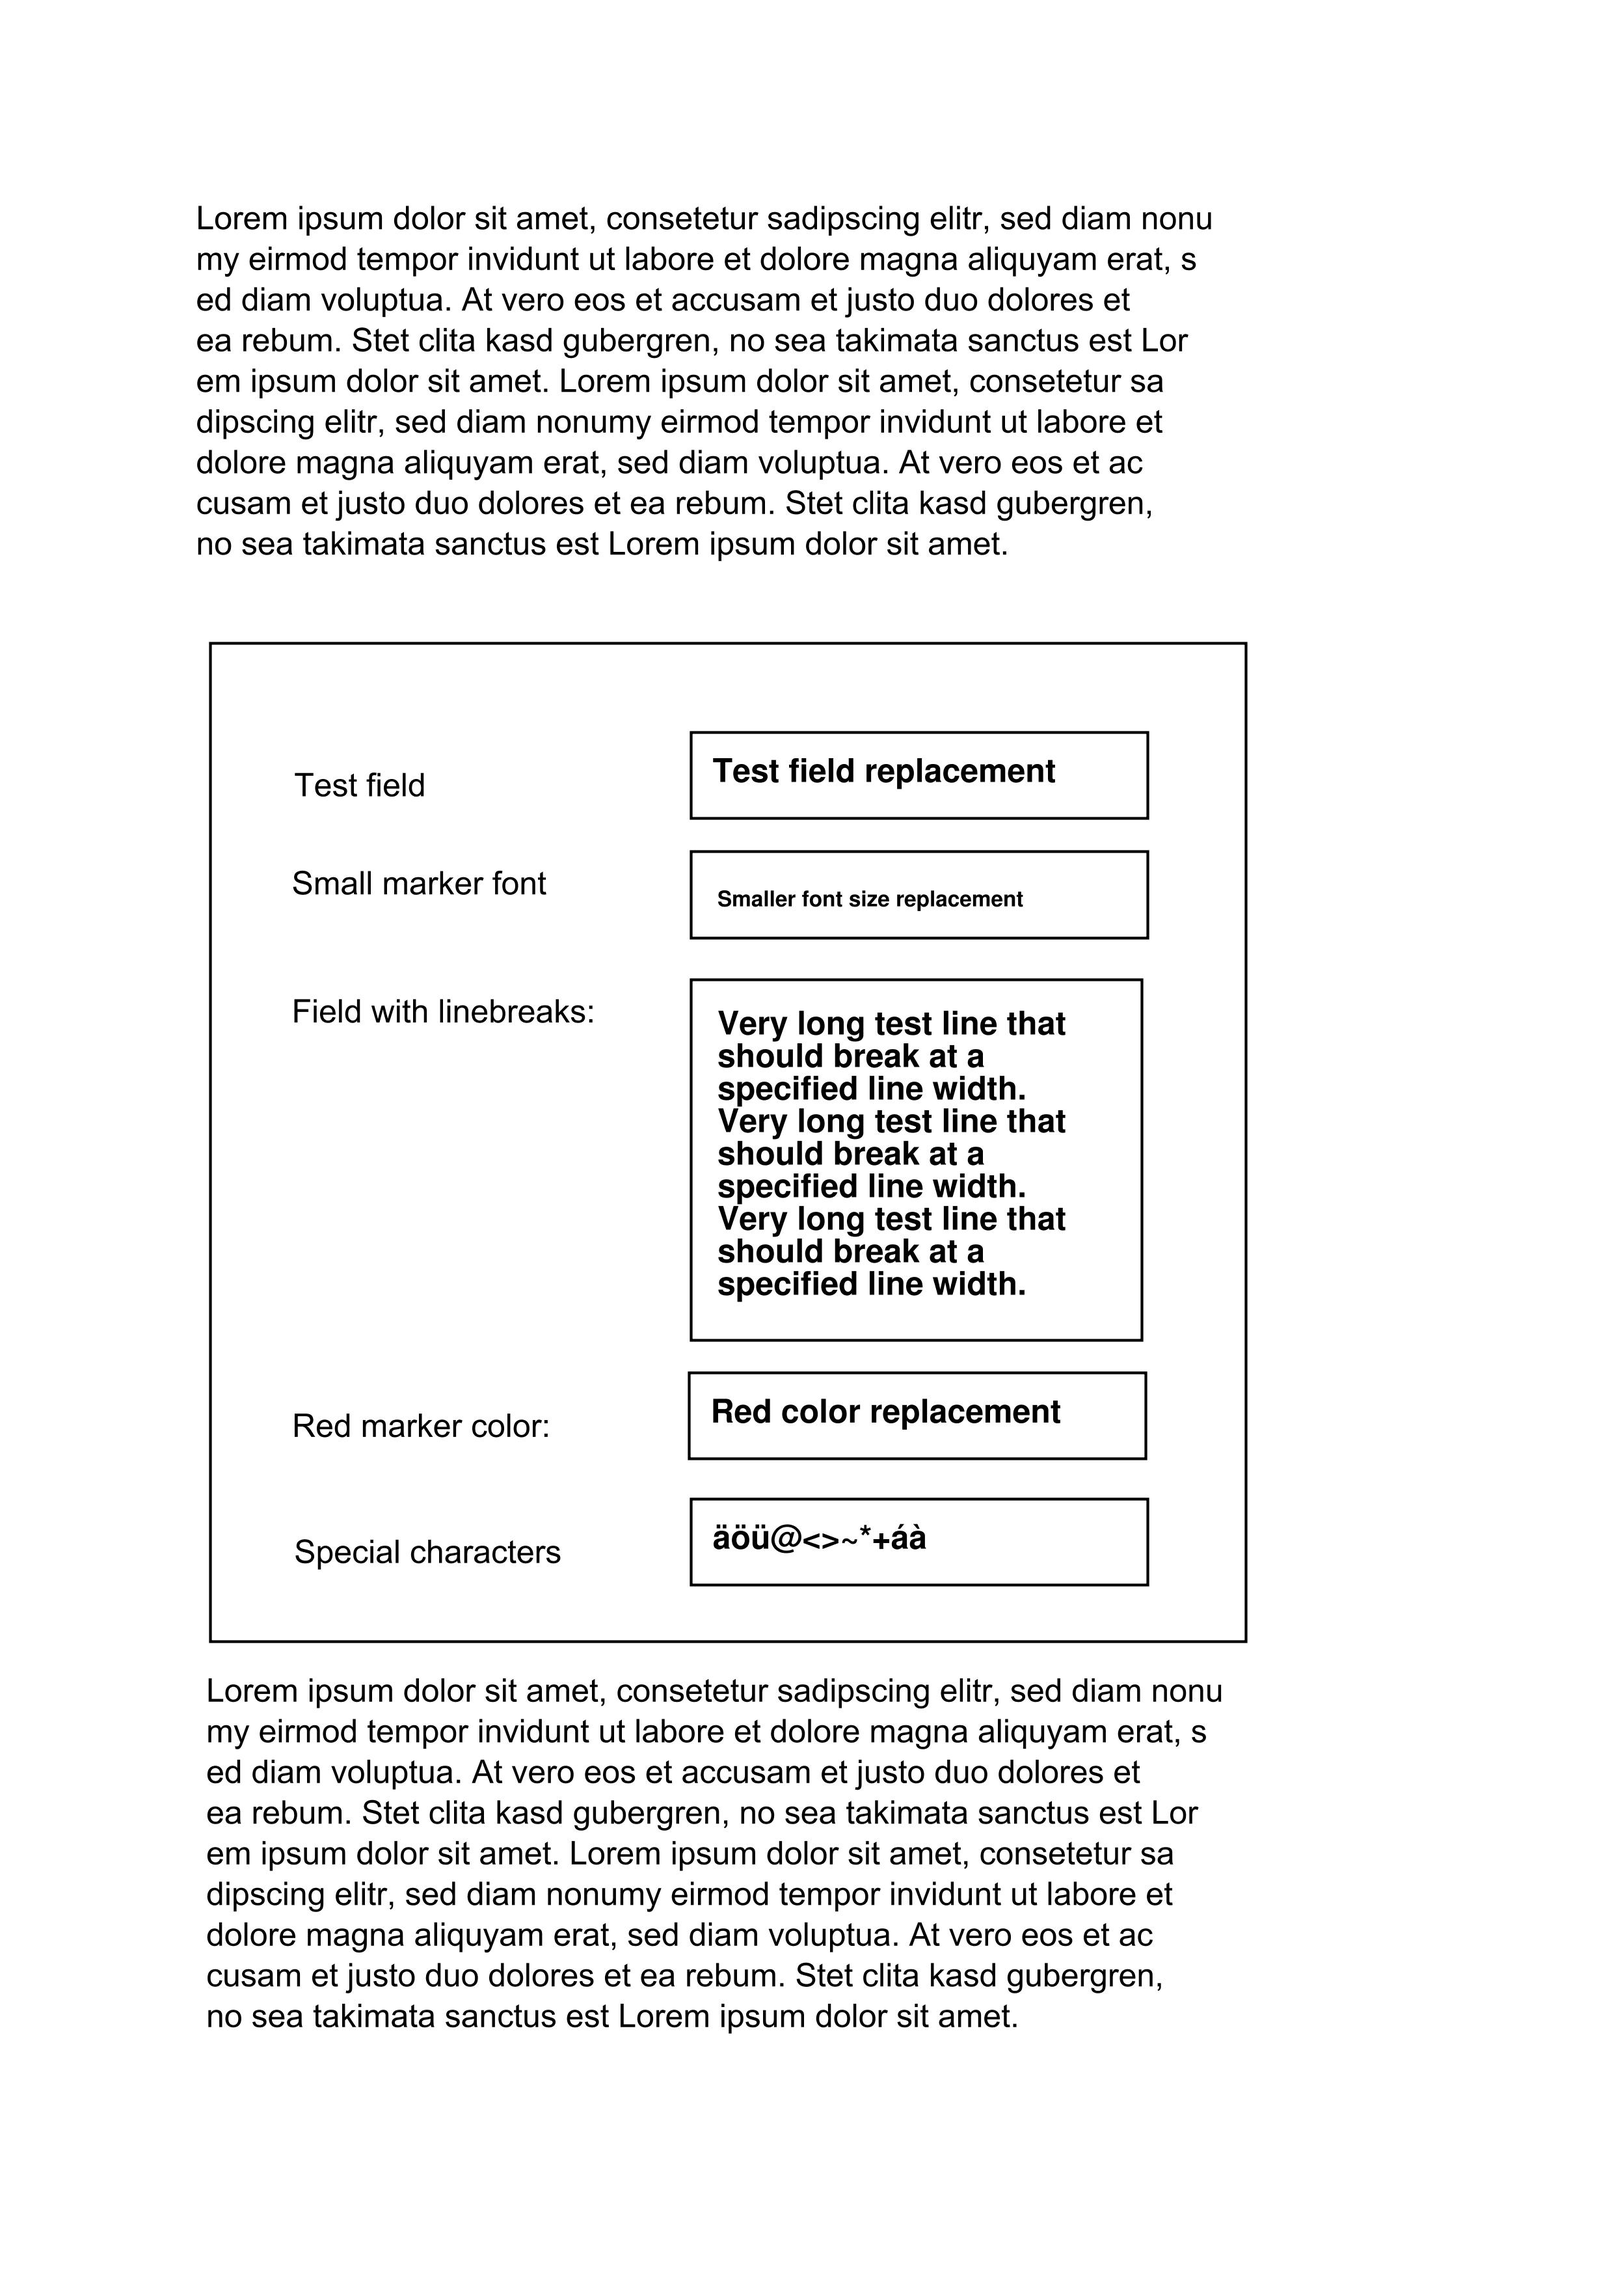
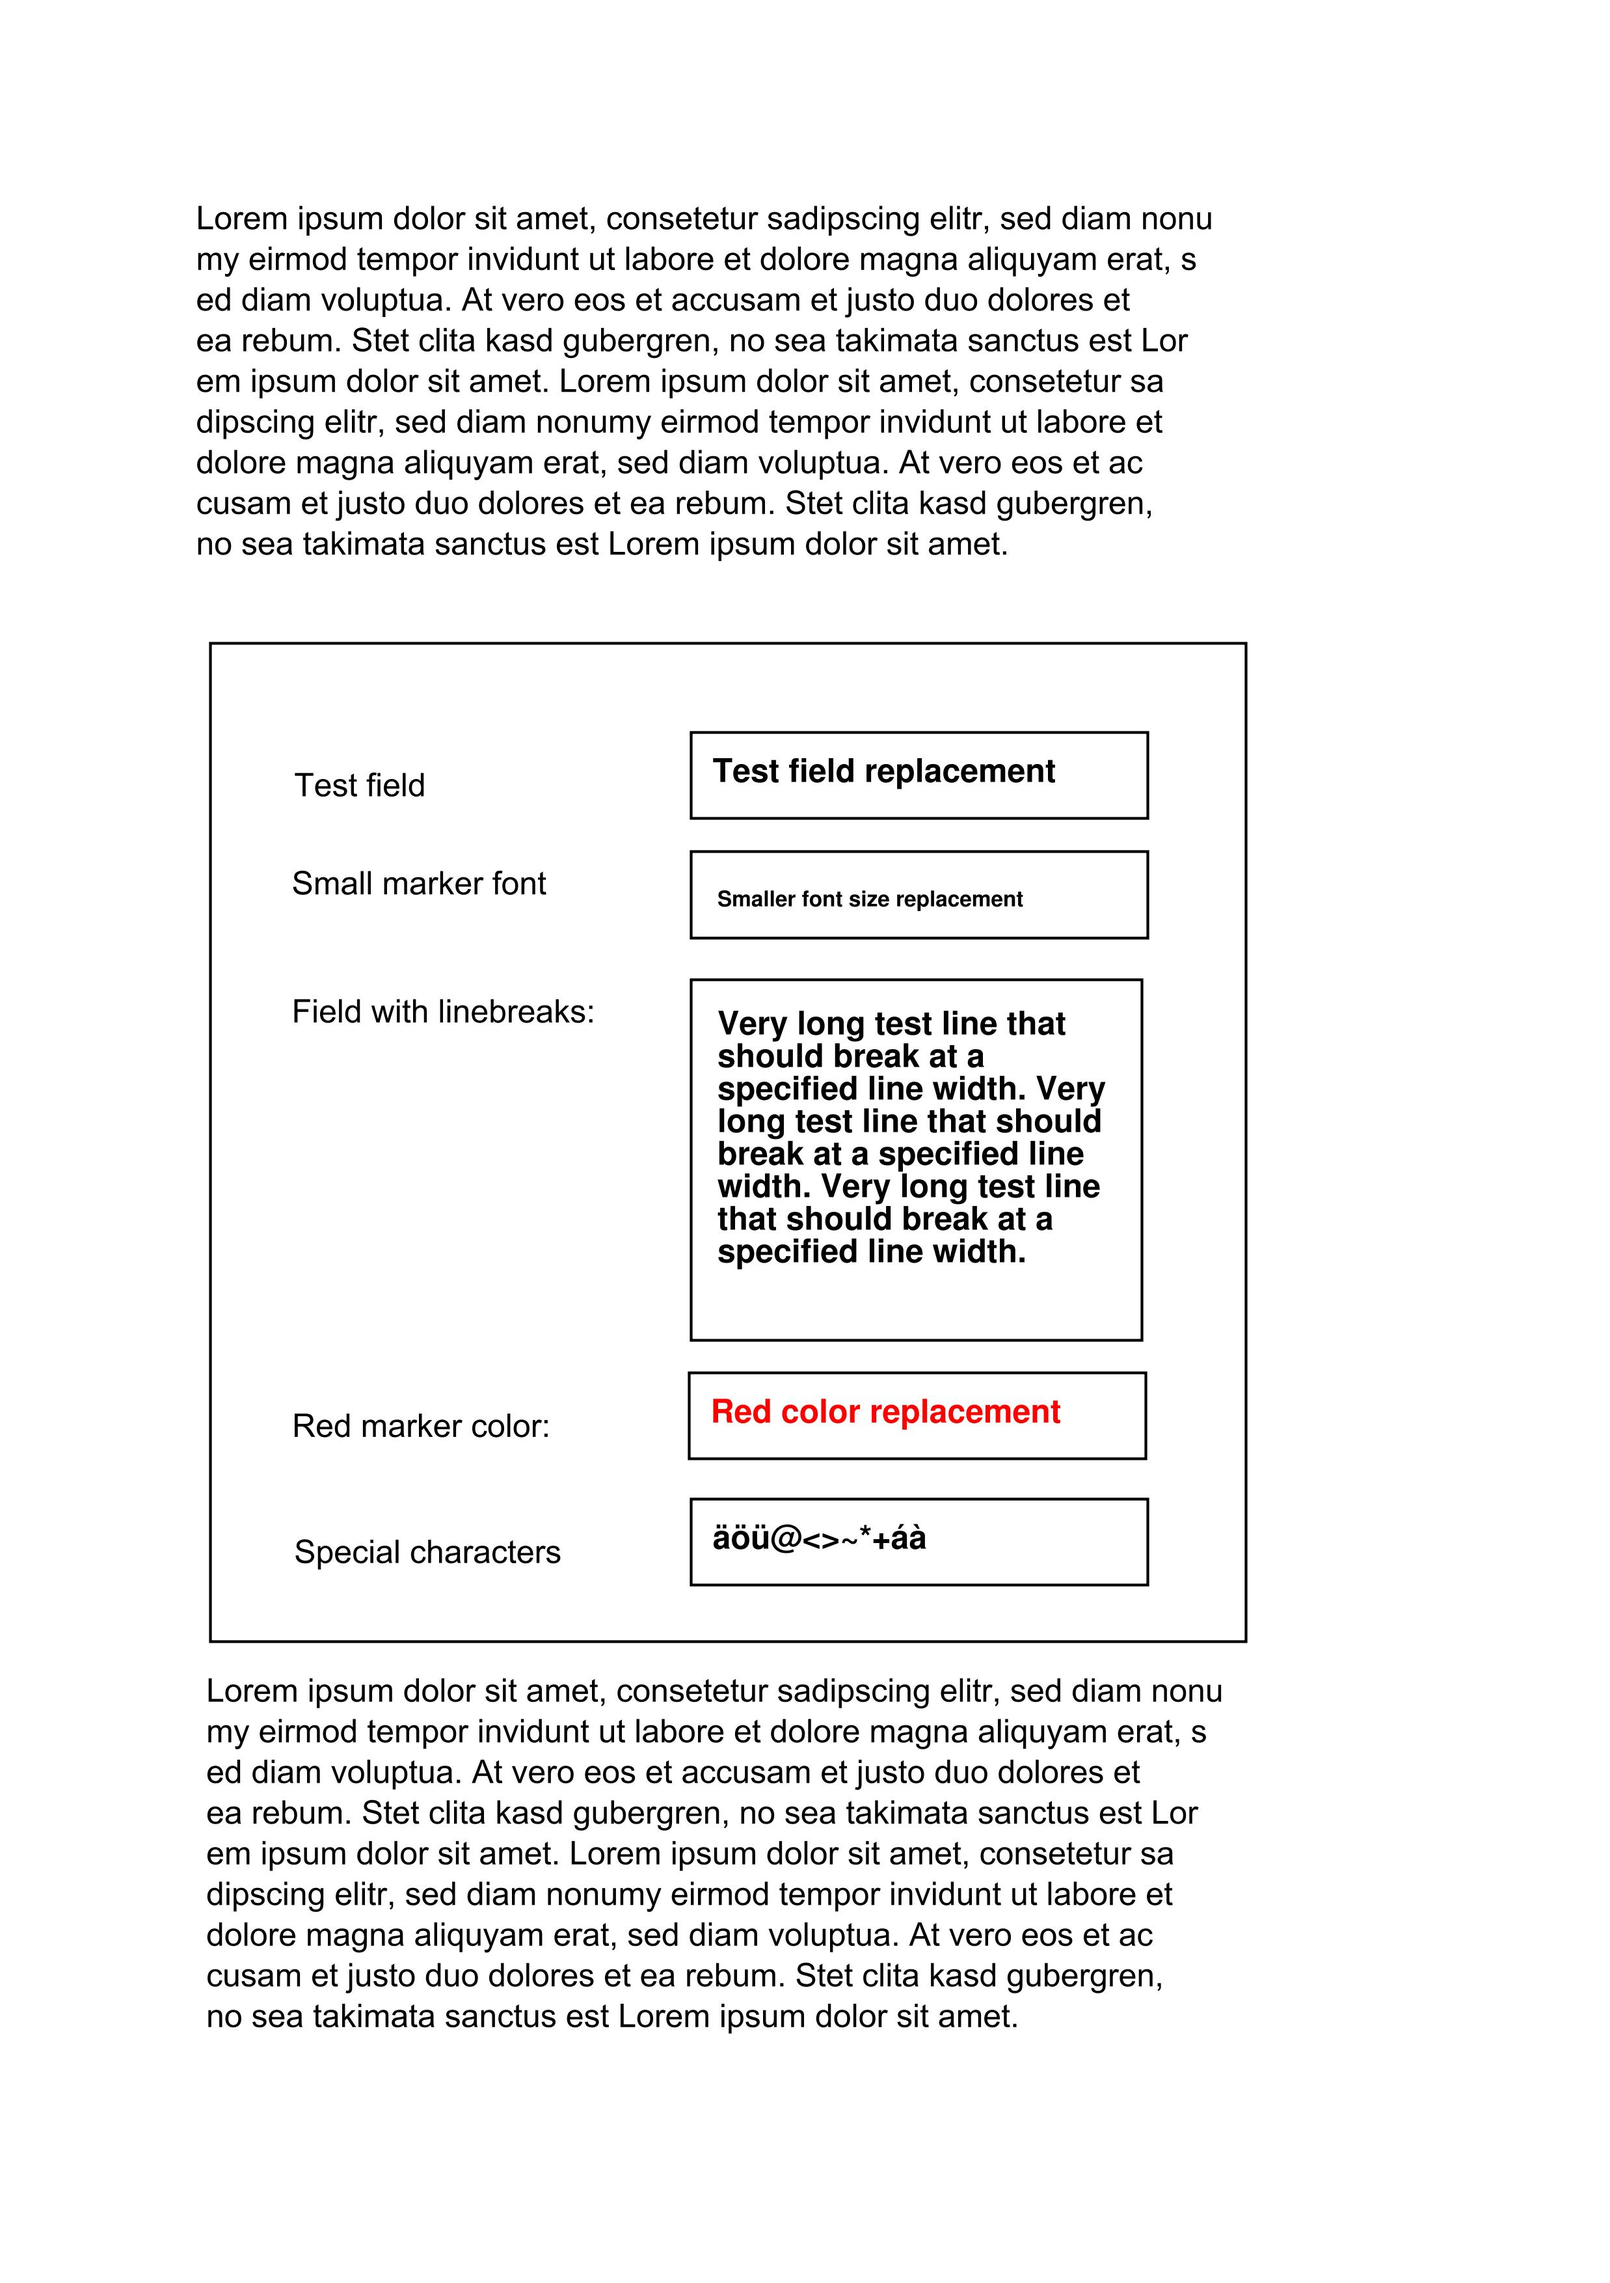
red color replacement

Changed region(s): [[0.4356, 0.4661, 0.6844, 0.6214]]

diff --git a/src/test/java/com/allpiper/pdfreplacer/PDFTextReplacerTest.java b/src/test/java/com/allpiper/pdfreplacer/PDFTextReplacerTest.java
@@ -7,6 +7,7 @@ import org.apache.pdfbox.pdmodel.PDDocument;
 import org.apache.pdfbox.rendering.PDFRenderer;
 
 import javax.imageio.ImageIO;
+import java.awt.*;
 import java.awt.image.BufferedImage;
 import java.io.File;
 
@@ -26,7 +27,12 @@ class PDFTextReplacerTest {
                 "###FIELD3###",
                 "Very long test line that should break at a specified line width. Very long test line that should break at a specified line width. Very long test line that should break at a specified line width. ",
                 12500f));
-        addTest("FIELD4", "Red color replacement");
+        PDFTextSearchLocation redColorReplacement = new PDFTextSearchLocation(
+                "###FIELD4###",
+                "Red color replacement"
+        );
+        redColorReplacement.setContentStreamTransformer(cs -> cs.setNonStrokingColor(Color.red));
+        locations.add(redColorReplacement);
         addTest("FIELD5", "äöü@<>~*+áà");
 
         int endPage = 6;
